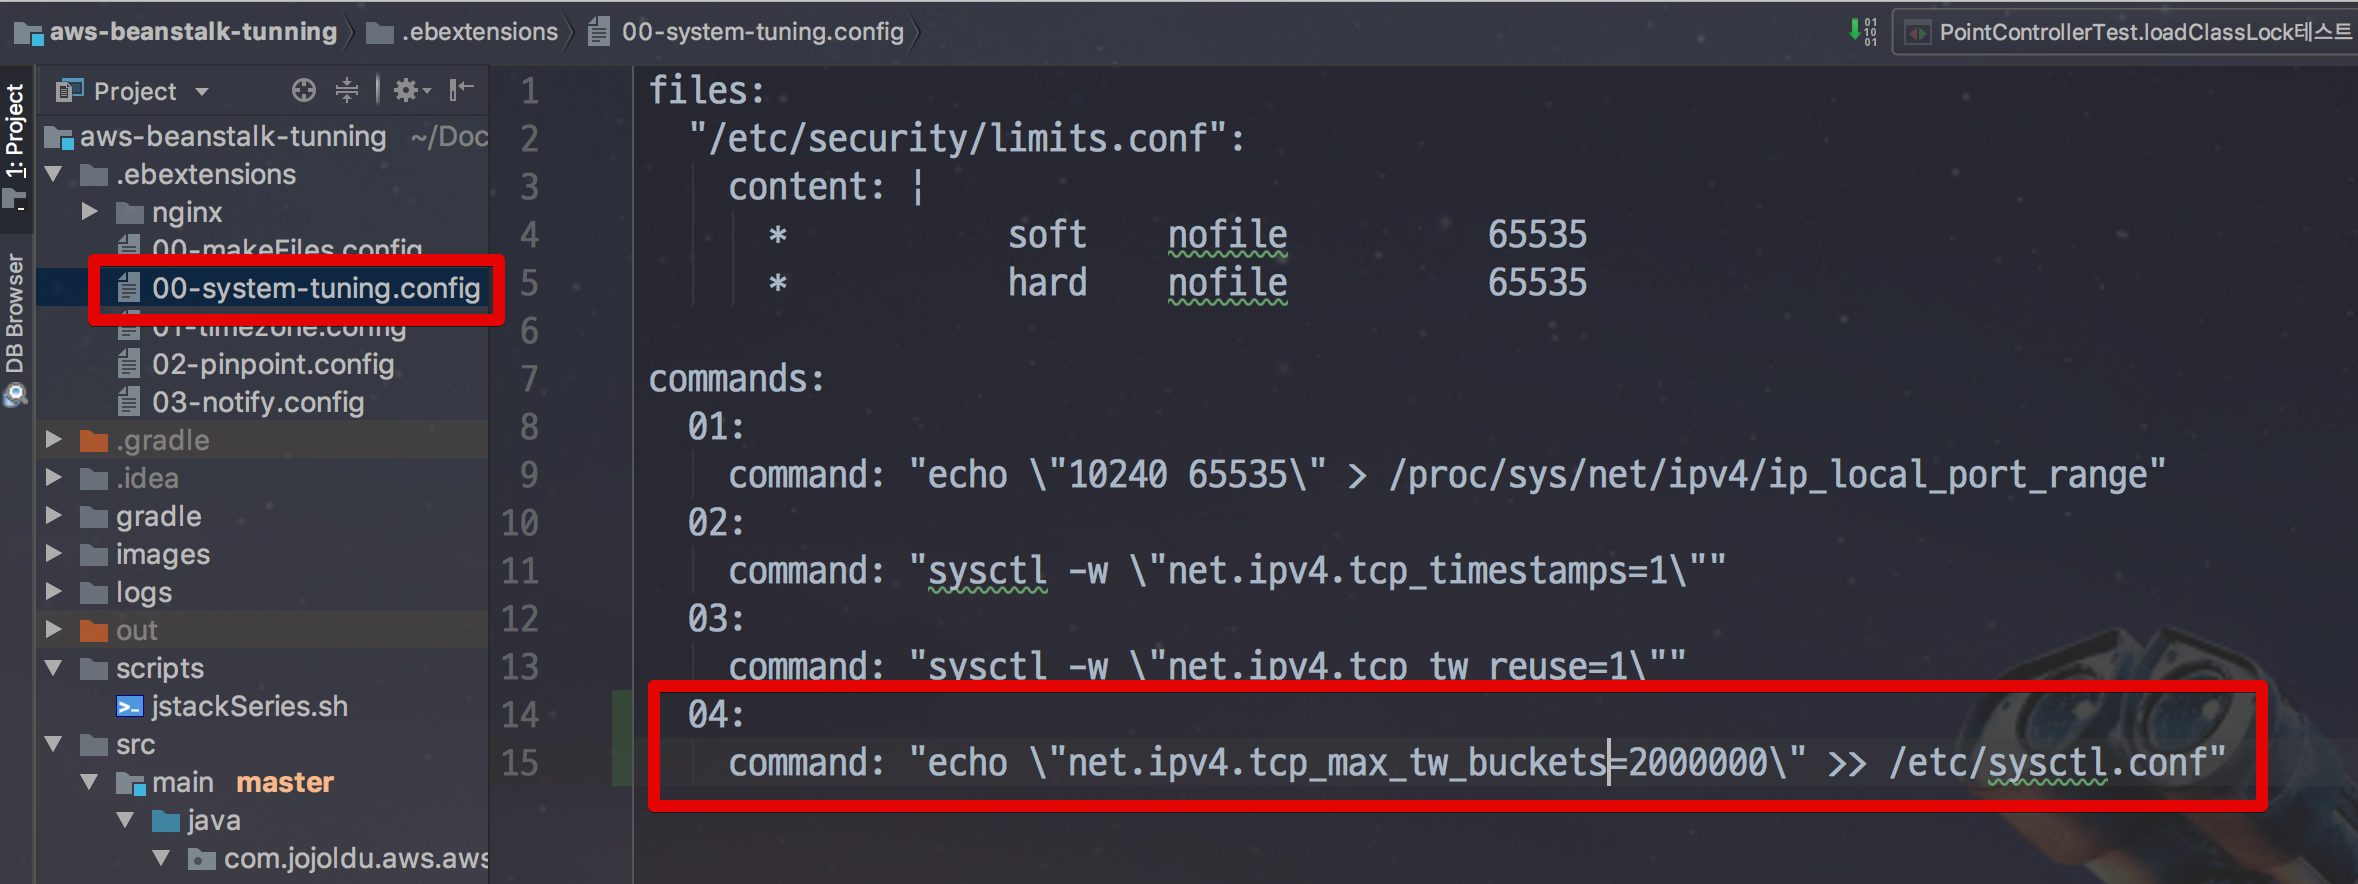
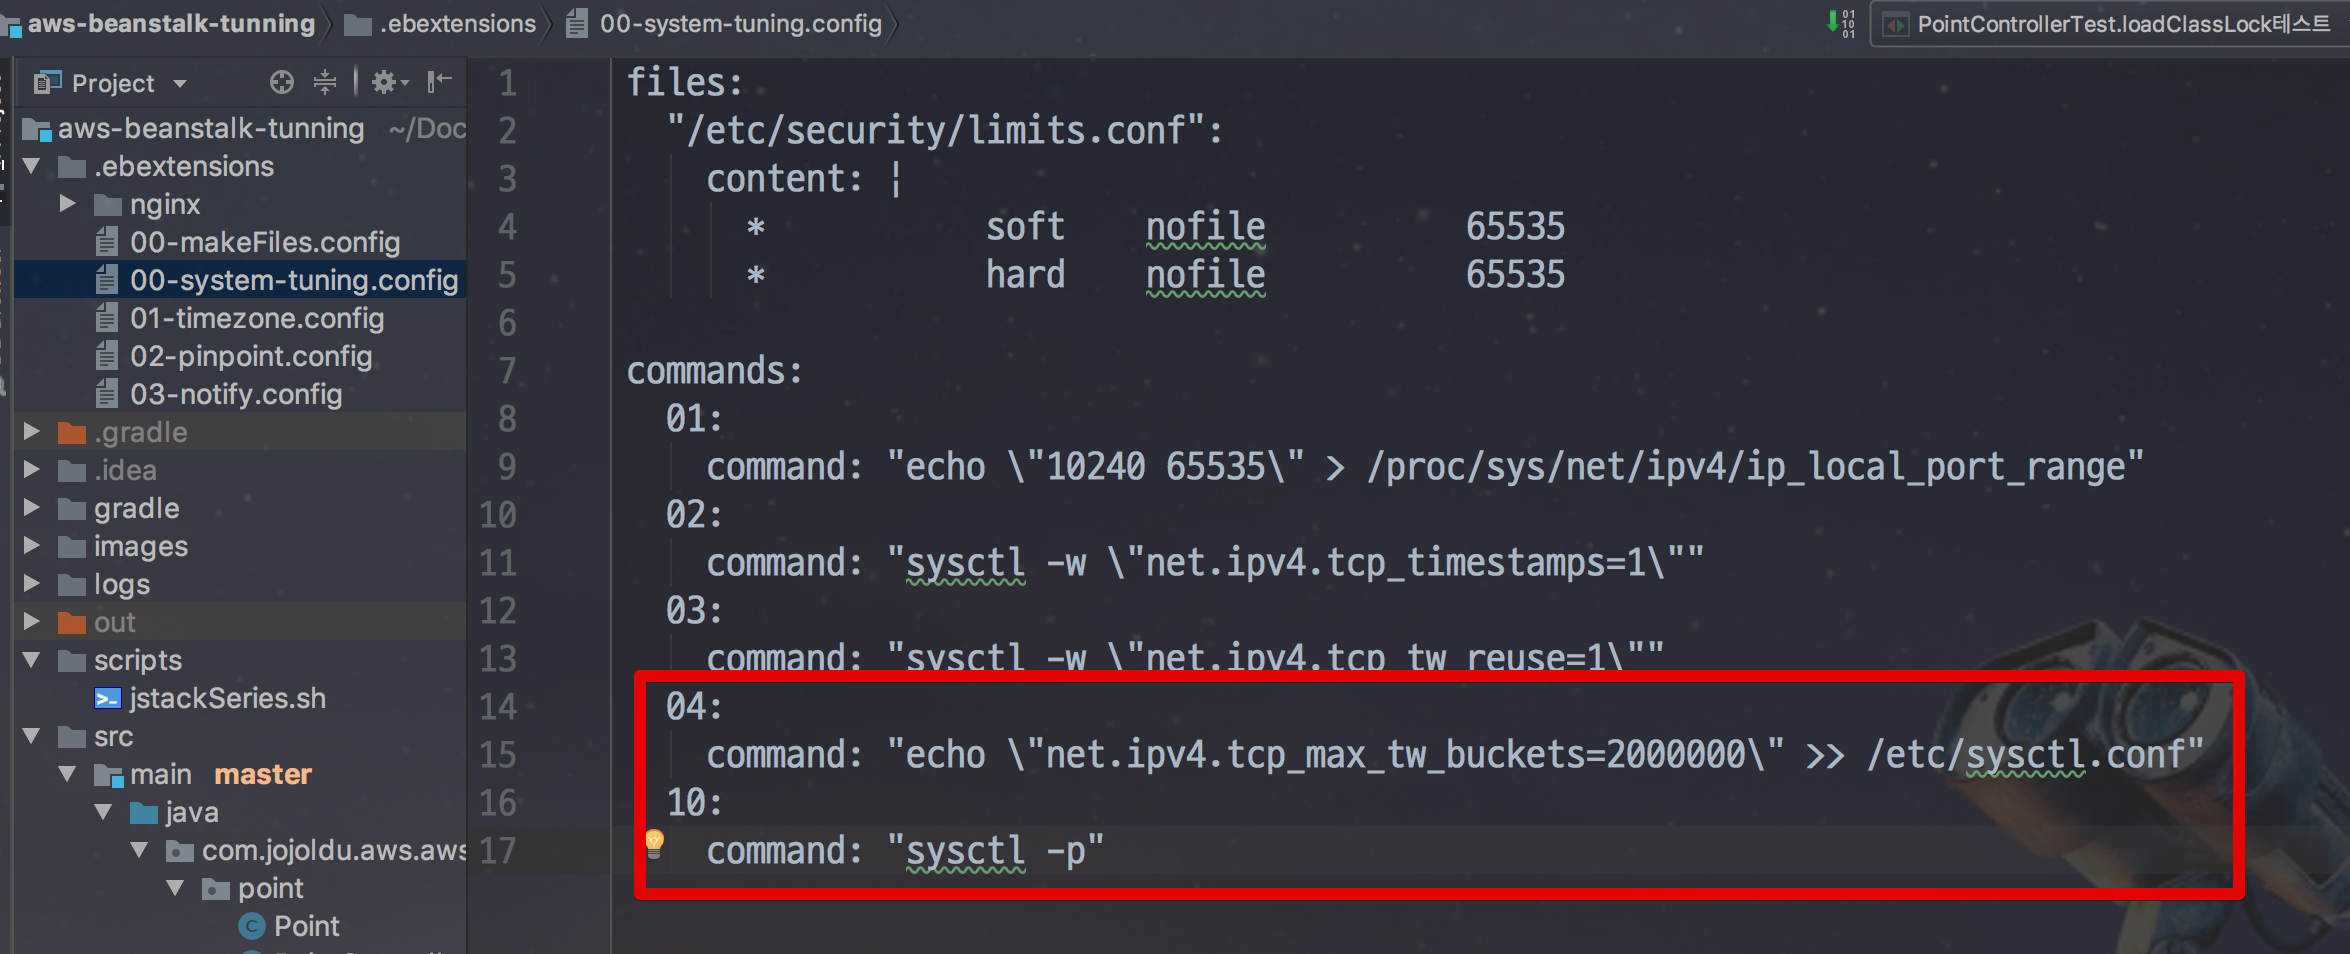
4-2까지 완성

diff --git a/4_기타.md b/4_기타.md
@@ -33,12 +33,16 @@ files:
 
 ![openfile3](./images/4/openfile3.png)
 
+이렇게 65535 값으로 변경된것을 알 수 있습니다!
+
 ## 4-2. tcp_max_tw_buckets
 
-
-```bash
-net.ipv4.tcp_max_tw_buckets=2000000
-```
+다음으로 변경해볼 값은 ```net.ipv4.tcp_max_tw_buckets``` 입니다.  
+이 값은 **시스템이 동시에 가질수 있는 timewait 소켓의 최대 개수**입니다.  
+이 값을 초과하면 time-wait 소켓을 즉시 파괴하고 경고를 출력합니다.  
+  
+이 값은 성능 테스트 결과에 맞춰 높이셔도 되는데요.  
+**기본값보다 낮추시면 안됩니다**
 
 현재 수치를 확인하는 방법은 아래 명령어로 가능합니다.
 
@@ -53,6 +57,13 @@ cat /proc/sys/net/ipv4/tcp_max_tw_buckets
 
 ```bash
 echo "net.ipv4.tcp_max_tw_buckets=2000000" >> /etc/sysctl.conf
+```
+
+숫자에 오타가 발생할수 있기 위해 말씀드리자면 **200만**입니다.  
+추가로 위 설정을 **서버에 영구 설정**하기 위해 아래 명령어를 실행합니다.
+
+```bash
+sysctl -p
 ```
 
 Beanstalk의 설정은 위 4-1과 마찬가지로 ```.ebextension/00-system-tuning.config``` 파일을 이용합니다.
@@ -75,13 +86,21 @@ commands:
     command: "sysctl -w \"net.ipv4.tcp_tw_reuse=1\""
   04:
     command: "echo \"net.ipv4.tcp_max_tw_buckets=2000000\" >> /etc/sysctl.conf"
+  10:
+    command: "sysctl -p"
 ```
 
-만약 
+config 파일 설정후 배포를 해보시면!
 
-이 외에도 정말 많은 **리눅스 커널 파라미터 가이드가** 있습니다.  
+![tcp_max_tw_buckets3](./images/4/tcp_max_tw_buckets3.png)
 
-* [Linux - 레드헷과 수세리눅스에서 사용하는 네트워크 관련 커널변수](https://support.hpe.com/hpsc/doc/public/display?docId=emr_na-c01418125)
+이렇게 설정값이 변경된 것을 확인할 수 있습니다!
+
+
+> 이 외에도 정말 많은 **리눅스 커널 파라미터 가이드가** 있습니다.  
+제가 주로 참고하는 2개 사이트인데요.  
+다른분들도 이 문서들을 보면서 성능 테스트를 진행해보셨으면 합니다.
+[Linux - 레드헷과 수세리눅스에서 사용하는 네트워크 관련 커널변수](https://support.hpe.com/hpsc/doc/public/display?docId=emr_na-c01418125),  [시스템 엔지니어 공동 관리 구역](http://blog.syszone.co.kr/m/634)
 
 ## 4-3. Keepalive Time
 
@@ -90,6 +109,7 @@ commands:
 이 외에도 많은 RDS 파라미터 튜닝 방법들이 있습니다만,  
 제가 DB 전문가가 아니다보니 ㅠ  
 여러분들이 직접 서비스 상황에 맞게 성능 테스트를 하면서 조정할 수 밖에 없습니다.  
-그래도 조금의 가이드가 
+그래도 조금의 가이드가 있으면 작업하시기 편할것 같아 참고하는 사이트들을 소개합니다.
+
 * [나는 프로그래머다! - DB 튜닝의 모든 것](http://ncrash.github.io/subway-study/2016/12/23/iamprogrammer-db-tuning-chapter1.html)
 * [Amazon RDS Performance Tuning Settings](https://gist.github.com/douglasjarquin/2208690)
